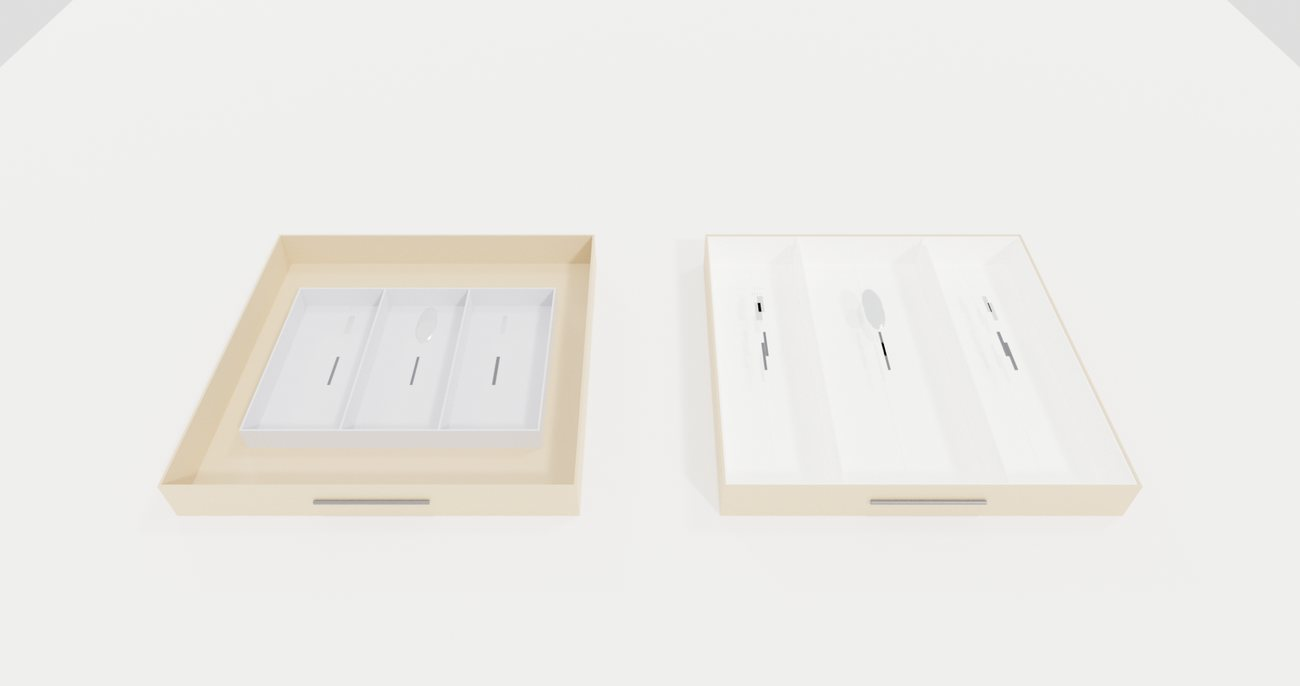
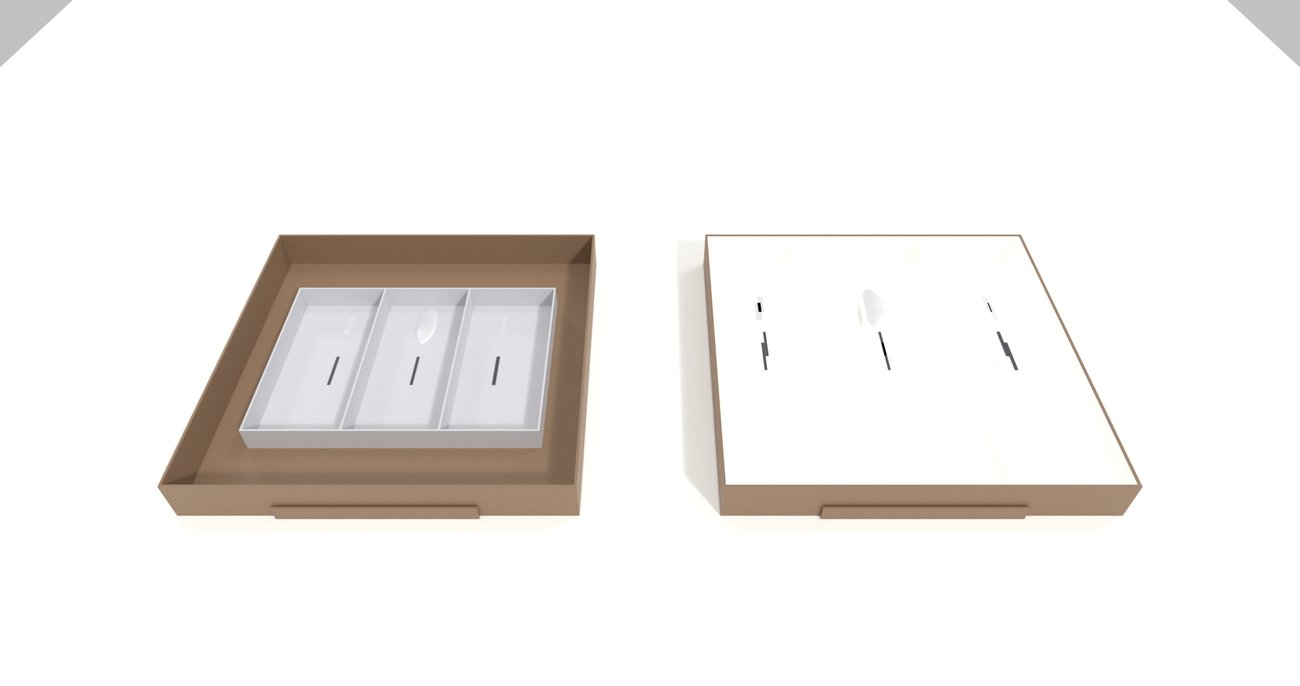
Deeper/darker walnut presentation renders; enlarge hero comparison and real-example images on desktop
Same accepted CAD geometry and real compartment layout, unchanged. Presentation-only: cosmetic drawer front panel for visual depth, richer walnut tone (Standard view transform + rebalanced lighting), stronger shadow/lighting contrast. Widened hero container and rebalanced grid column ratio so both images render larger on desktop; mobile layout unaffected, no horizontal scroll.

diff --git a/index.html b/index.html
@@ -73,6 +73,7 @@ p { margin: 0 0 12px; }
 
 /* Hero (two-column on desktop: text left, comparison visual right) */
 .hero { padding: 36px 0 40px; }
+.hero .wrap { max-width: 1240px; }
 .hero-grid { display:grid; grid-template-columns: 1fr; gap:32px; align-items:center; }
 .hero-copy { text-align:center; }
 .hero-copy p.sub { font-size:17px; max-width:480px; margin:0 auto 22px; color: var(--muted); }
@@ -103,7 +104,7 @@ p { margin: 0 0 12px; }
 .step p { font-size:16px; margin:0; color:var(--muted); }
 
 /* Example */
-.example-figure { border-radius: var(--radius); overflow:hidden; border:1px solid var(--line); max-width:50%; margin:0 auto; }
+.example-figure { border-radius: var(--radius); overflow:hidden; border:1px solid var(--line); max-width:72%; margin:0 auto; }
 .example-dims {
   display:inline-block; font-weight:700; font-size:15px;
   background: var(--surface); border-radius:999px; padding:6px 16px; margin-bottom:14px;
@@ -191,7 +192,7 @@ footer p { font-size:14px; color:var(--muted); margin:0; }
 @media (min-width: 760px) {
   h1 { font-size: 42px; }
   .hero { padding: 44px 0 48px; }
-  .hero-grid { grid-template-columns: 1.05fr 1fr; gap:44px; }
+  .hero-grid { grid-template-columns: 0.85fr 1.15fr; gap:44px; }
   .hero-copy { text-align:left; }
   .hero-copy p.sub { margin:0 0 22px; }
   .steps { grid-template-columns: repeat(3, 1fr); }
